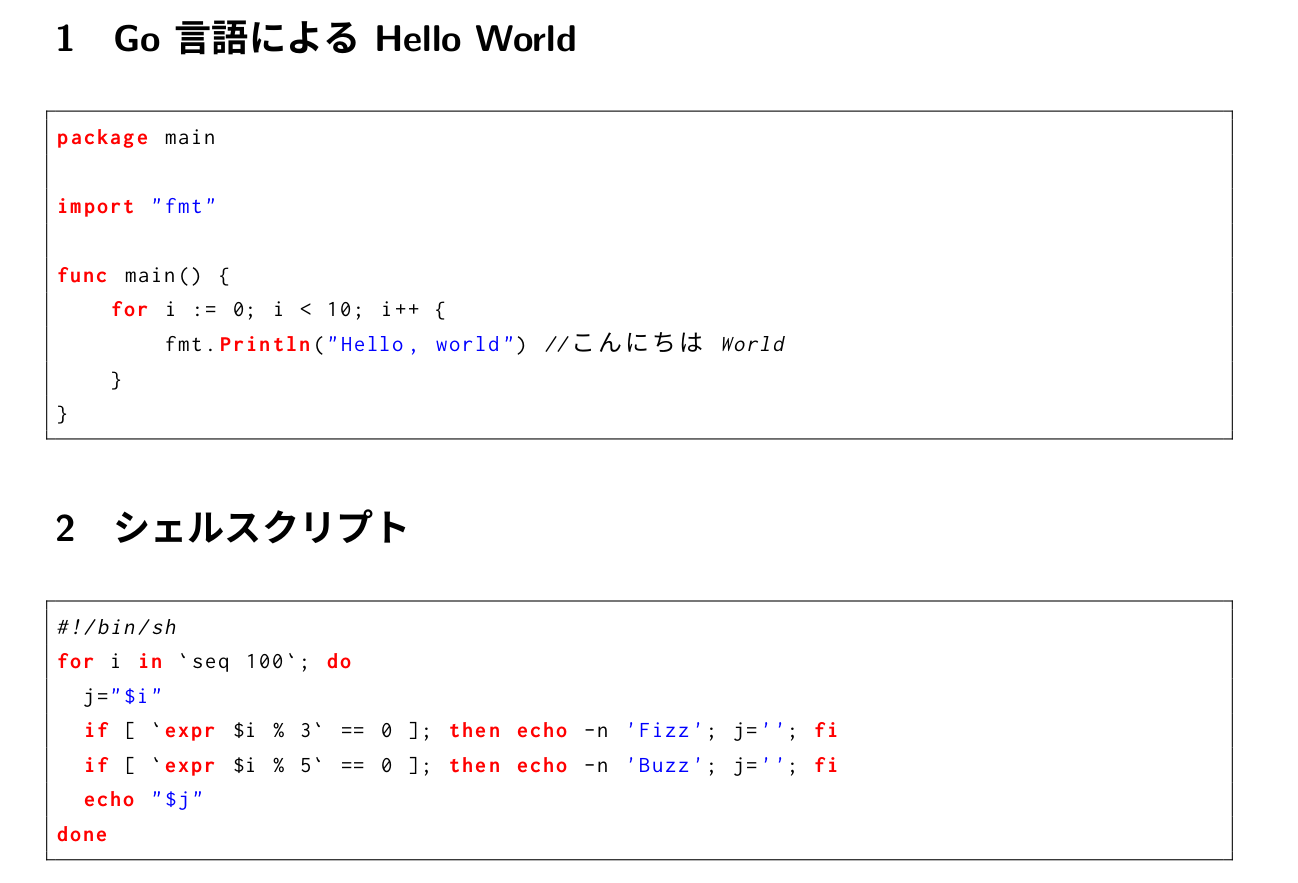
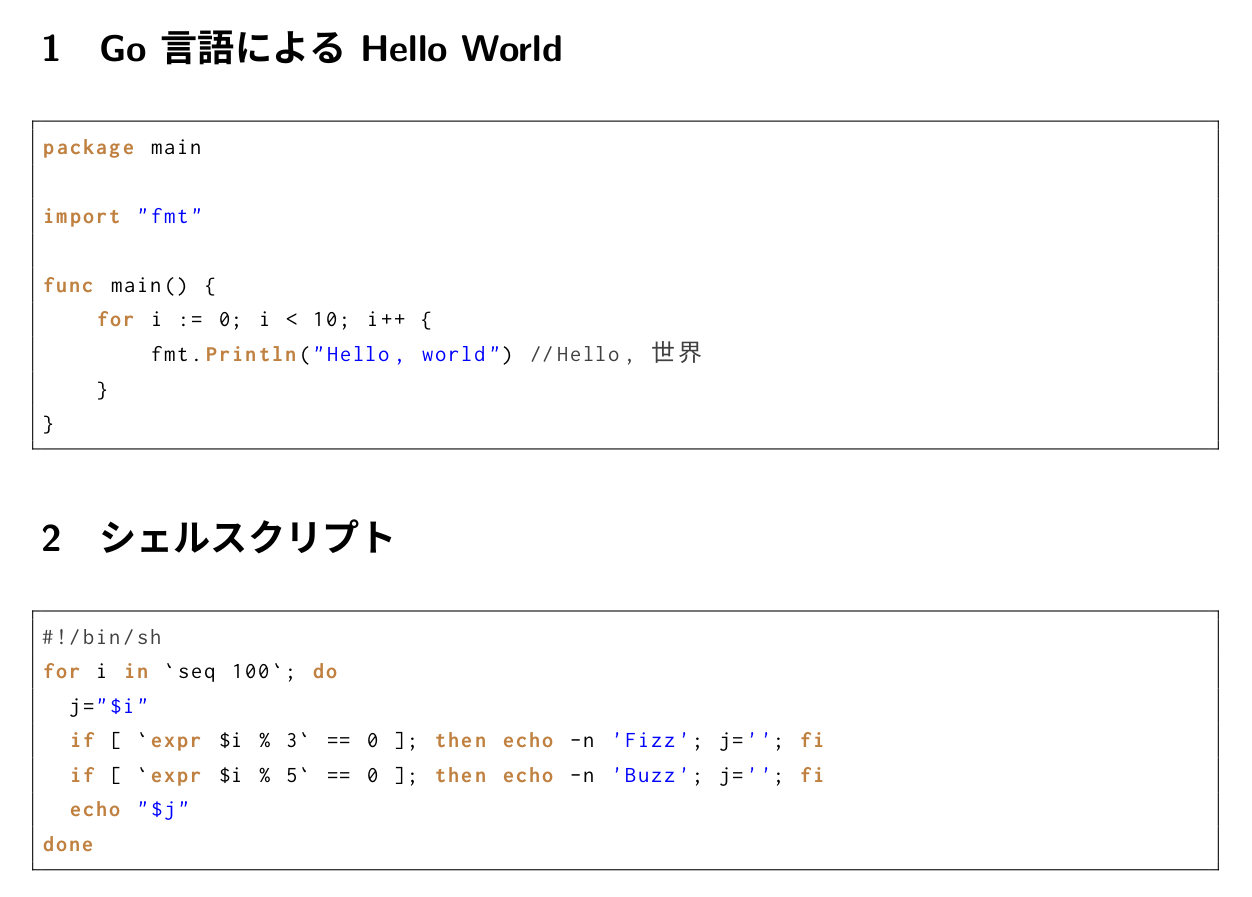
Fix entry

diff --git a/content/remark/2021/09/install-texlive-in-ubuntu-again/sample.tex b/content/remark/2021/09/install-texlive-in-ubuntu-again/sample.tex
@@ -3,13 +3,16 @@
 \setmonofont[AutoFakeSlant,BoldItalicFeatures={FakeSlant},Scale=MatchLowercase]{Inconsolatazi4} % use Inconsolata
 
 \usepackage{graphicx,xcolor}
-\usepackage{listings-golang}
+% \usepackage{listings}
+\usepackage{listings-golang} % import this package after listings
 \lstset{
-    frame=single,
-    basicstyle=\small\ttfamily,
-    tabsize=4,
-    keywordstyle=\color{red}\bfseries,
-    stringstyle=\color{blue}
+	frame=single,
+	basicstyle=\small\ttfamily,
+	tabsize=4,
+	commentstyle=\color{darkgray},
+	keywordstyle=\color{brown}\bfseries,
+	stringstyle=\color{blue},
+	showstringspaces=false
 }
 
 \begin{document}
@@ -22,9 +25,9 @@ package main
 import "fmt"
 
 func main() {
-    for i := 0; i < 10; i++ {
-        fmt.Println("Hello, world") //こんにちは World
-    }
+	for i := 0; i < 10; i++ {
+		fmt.Println("Hello, world") //Hello, 世界
+	}
 }
 \end{lstlisting}
 

diff --git a/material/tex-sample/code/sample.tex b/material/tex-sample/code/sample.tex
@@ -9,8 +9,10 @@
 	frame=single,
 	basicstyle=\small\ttfamily,
 	tabsize=4,
-	keywordstyle=\color{red}\bfseries,
-	stringstyle=\color{blue}
+	commentstyle=\color{darkgray},
+	keywordstyle=\color{brown}\bfseries,
+	stringstyle=\color{blue},
+	showstringspaces=false
 }
 
 \begin{document}
@@ -24,7 +26,7 @@ import "fmt"
 
 func main() {
 	for i := 0; i < 10; i++ {
-		fmt.Println("Hello, world") //こんにちは World
+		fmt.Println("Hello, world") //Hello, 世界
 	}
 }
 \end{lstlisting}

diff --git a/content/remark/2021/09/install-texlive-in-ubuntu-again.md b/content/remark/2021/09/install-texlive-in-ubuntu-again.md
@@ -289,13 +289,16 @@ $ luaotfload-tool -fu
 \setmonofont[AutoFakeSlant,BoldItalicFeatures={FakeSlant},Scale=MatchLowercase]{Inconsolatazi4} % use Inconsolata
 
 \usepackage{graphicx,xcolor}
-\usepackage{listings-golang}
+% \usepackage{listings}
+\usepackage{listings-golang} % import this package after listings
 \lstset{
     frame=single,
     basicstyle=\small\ttfamily,
     tabsize=4,
-    keywordstyle=\color{red}\bfseries,
-    stringstyle=\color{blue}
+    commentstyle=\color{darkgray},
+    keywordstyle=\color{brown}\bfseries,
+    stringstyle=\color{blue},
+    showstringspaces=false
 }
 
 \begin{document}
@@ -309,7 +312,7 @@ import "fmt"
 
 func main() {
     for i := 0; i < 10; i++ {
-        fmt.Println("Hello, world") //こんにちは World
+        fmt.Println("Hello, world") //Hello, 世界
     }
 }
 \end{lstlisting}
@@ -334,7 +337,7 @@ done
 
 これを処理した結果は以下の通り。
 
-{{< fig-img src="./sample.png" title="sample.pdf" link="./sample.pdf" width="1298" >}}
+{{< fig-img src="./sample.png" title="sample.pdf" link="./sample.pdf" width="1252" >}}
 
 うんうん。
 こんなもんだろう。
